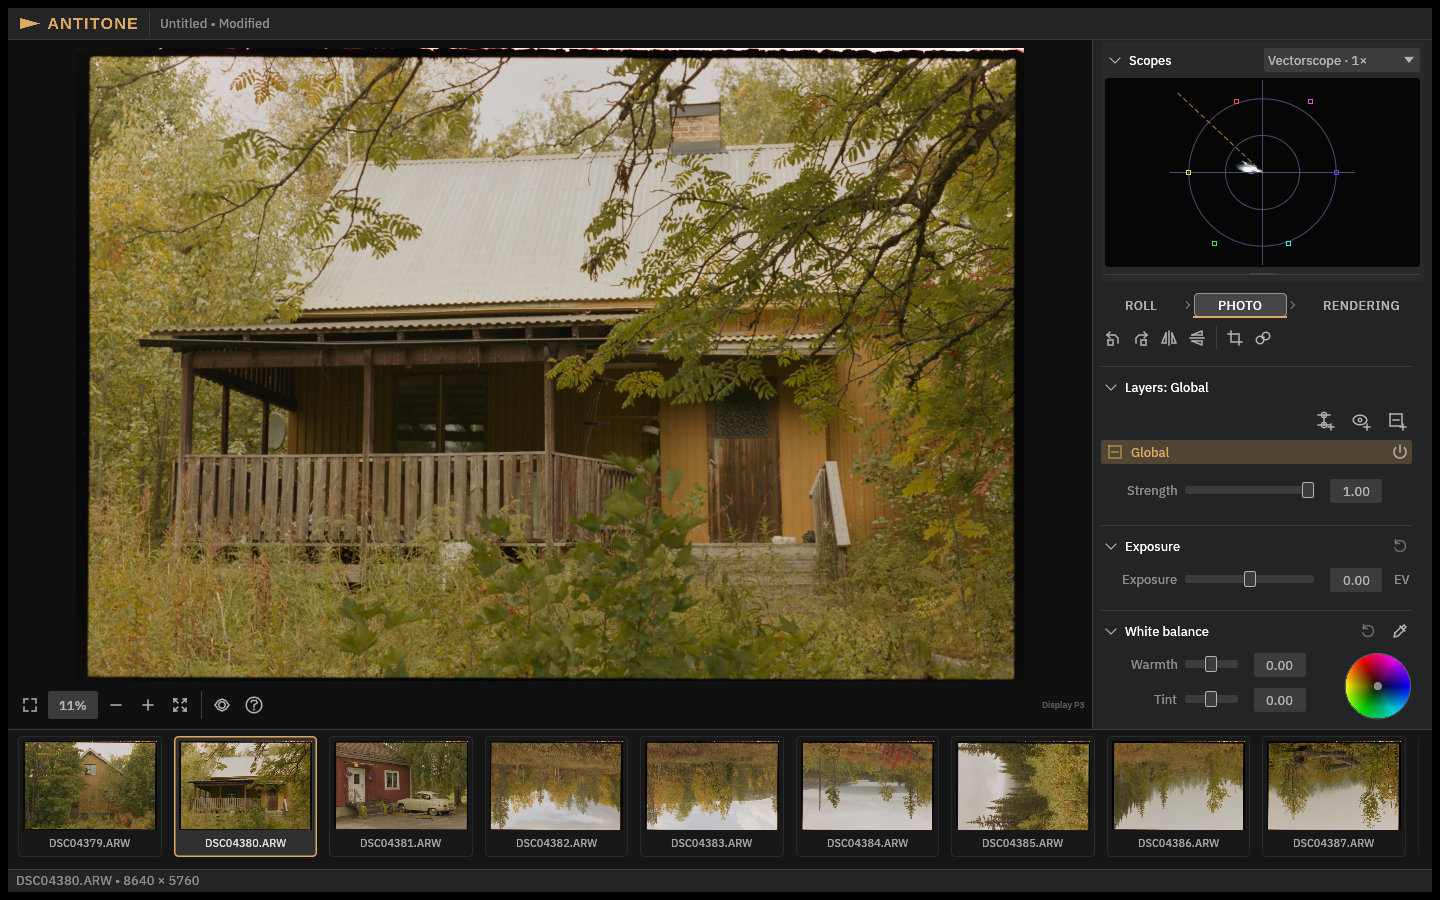
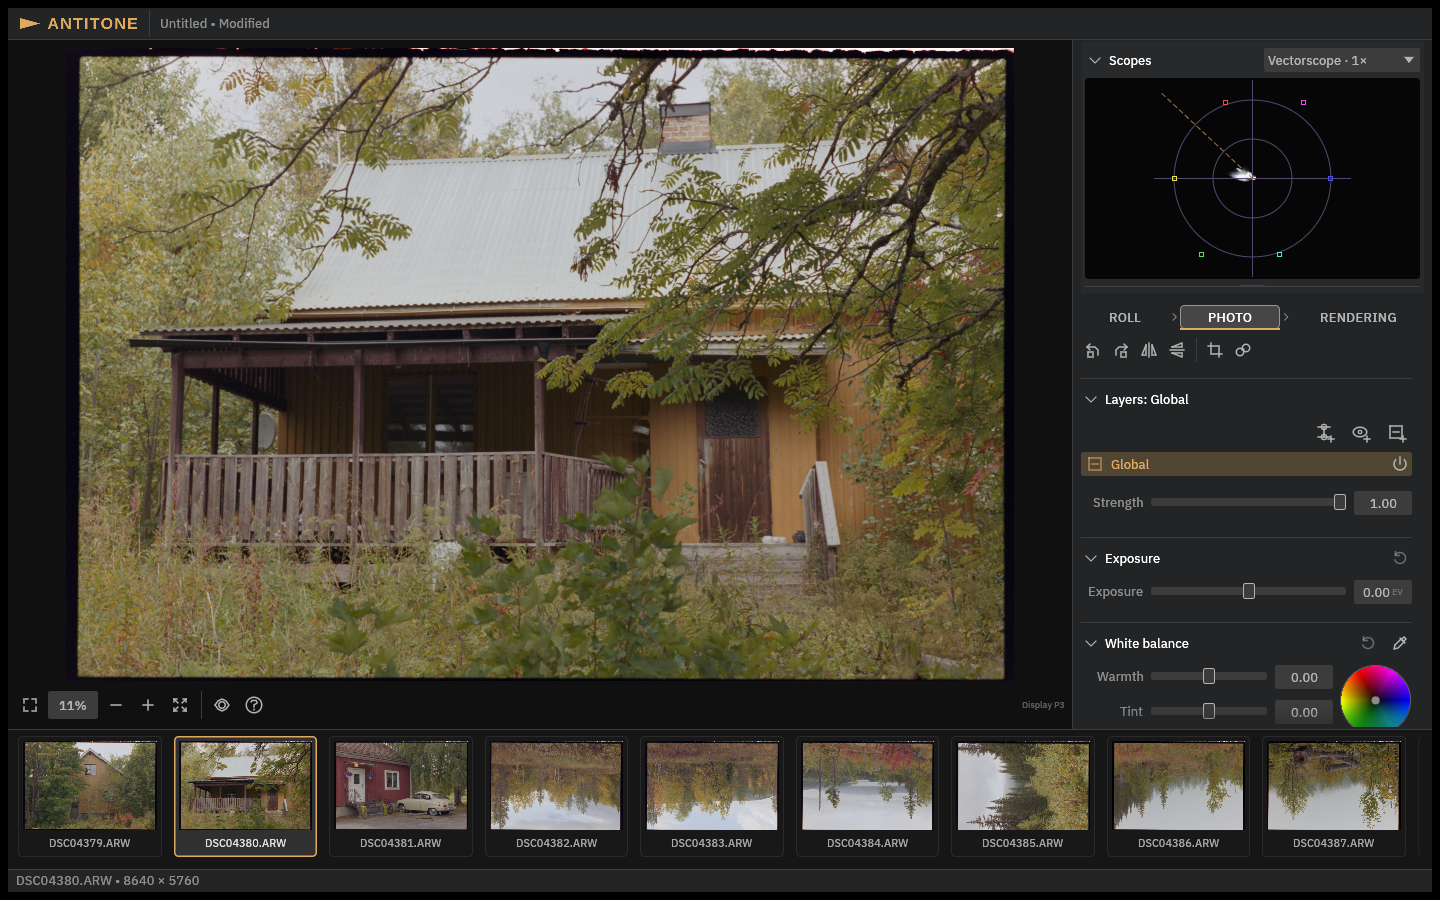
Align compact sliders on a shared inspector grid

diff --git a/src/editor/ui/parameter.rs b/src/editor/ui/parameter.rs
@@ -1,11 +1,14 @@
 use super::{
     ControlResponse, INSPECTOR_ROW_HEIGHT, PARAMETER_GAP, PARAMETER_NUMERIC_WIDTH,
-    PARAMETER_SLIDER_HEIGHT, PARAMETER_UNIT_WIDTH, icons,
+    PARAMETER_SLIDER_HEIGHT, icons,
+    inspector::name_label,
     interaction::{control_active, control_started},
     numeric_cancelled,
 };
 use egui::{Response, Ui};
 use std::ops::RangeInclusive;
+
+const PARAMETER_COLUMN_GAP: f32 = 8.;
 
 /// An inspector value row. Identity is independent of the displayed name.
 /// Features supply value semantics; spacing and gestures belong to the component.
@@ -116,9 +119,8 @@ struct FineDrag {
     fine: bool,
 }
 
-/// The fixed name column shared by every parameter row, so tracks line up across sections.
 fn parameter_name(ui: &mut Ui, row: &ParameterRow<'_>) -> Response {
-    let label = super::name_label(ui, row.label);
+    let label = name_label(ui, row.label);
     if let Some(help) = row.help {
         label.clone().on_hover_text(help);
     }
@@ -223,16 +225,18 @@ fn numeric_field(
     let decimals = row.decimals;
     let numeric = ui
         .push_id("numeric", |ui| {
-            ui.add_sized(
-                [PARAMETER_NUMERIC_WIDTH, height],
-                egui::DragValue::new(value)
-                    .speed(row.speed.unwrap_or(row.step))
-                    .range(row.range.clone())
-                    .clamp_existing_to_range(false)
-                    .min_decimals(2.min(decimals))
-                    .max_decimals(decimals)
-                    .update_while_editing(false),
-            )
+            ui.spacing_mut().button_padding.x = 2.;
+            let mut field = egui::DragValue::new(value)
+                .speed(row.speed.unwrap_or(row.step))
+                .range(row.range.clone())
+                .clamp_existing_to_range(false)
+                .min_decimals(2.min(decimals))
+                .max_decimals(decimals)
+                .update_while_editing(false);
+            if let Some(unit) = row.unit {
+                field = field.suffix(egui::RichText::new(format!(" {unit}")).small().weak());
+            }
+            ui.add_sized([PARAMETER_NUMERIC_WIDTH, height], field)
         })
         .inner;
     let cancelled = numeric_cancelled(ui, &numeric);
@@ -254,47 +258,30 @@ fn parameter_row(ui: &mut Ui, row: &ParameterRow<'_>, value: &mut f64) -> Parame
     ui.push_id(row.id, |ui| {
         let previous = *value;
         let mut reset = false;
-        let unit = row.unit;
         let (slider, numeric, label, cancelled, slider_value, numeric_value) =
             icons::row_at(ui, INSPECTOR_ROW_HEIGHT, |ui| {
+                ui.spacing_mut().item_spacing.x = PARAMETER_COLUMN_GAP;
                 let label = parameter_name(ui, row);
                 reset = row.default_value.is_some() && name_reset_gesture(ui, &label);
-                let reserved = PARAMETER_NUMERIC_WIDTH
-                    + 3. * ui.spacing().item_spacing.x
-                    + PARAMETER_UNIT_WIDTH;
-                let width = (ui.available_width() - reserved).max(48.);
+
+                let reserved = PARAMETER_COLUMN_GAP + PARAMETER_NUMERIC_WIDTH;
+                let width = (ui.available_width() - reserved).max(1.);
                 let mut slider_value = previous;
                 let slider = ui
                     .push_id("track", |ui| track(ui, row, &mut slider_value, width))
                     .inner;
+
                 let mut numeric_value = previous;
-                let (numeric, cancelled) = ui
-                    .with_layout(egui::Layout::right_to_left(egui::Align::Center), |ui| {
-                        ui.add_sized(
-                            [PARAMETER_UNIT_WIDTH, INSPECTOR_ROW_HEIGHT - 2.],
-                            egui::Label::new(unit.unwrap_or("")),
-                        );
-                        let (numeric, cancelled) = ui
-                            .push_id("number", |ui| {
-                                numeric_field(
-                                    ui,
-                                    row,
-                                    &mut numeric_value,
-                                    INSPECTOR_ROW_HEIGHT - 2.,
-                                )
-                            })
-                            .inner;
-                        if row.default_value.is_some() {
-                            numeric.clone().context_menu(|ui| {
-                                if ui.button("Reset to default").clicked() {
-                                    reset = true;
-                                    ui.close();
-                                }
-                            });
+                let (numeric, cancelled) =
+                    numeric_field(ui, row, &mut numeric_value, INSPECTOR_ROW_HEIGHT - 2.);
+                if row.default_value.is_some() {
+                    numeric.clone().context_menu(|ui| {
+                        if ui.button("Reset to default").clicked() {
+                            reset = true;
+                            ui.close();
                         }
-                        (numeric, cancelled)
-                    })
-                    .inner;
+                    });
+                }
                 (
                     slider,
                     numeric,

diff --git a/src/editor/ui/parameter/tests.rs b/src/editor/ui/parameter/tests.rs
@@ -466,40 +466,54 @@ fn bounded_rows_preserve_precision_clamp_edits_and_reset_only_when_enabled() {
 }
 
 #[test]
-fn parameter_rows_share_one_track_start() {
-    let context = egui::Context::default();
-    let mut contrast = 1.;
-    let mut pivot = 0.18;
-    let mut exposure = 0.;
-    let mut margin = 1.;
-    let mut rects = None;
-    let mut output = context.run_ui(
-        egui::RawInput {
-            screen_rect: Some(egui::Rect::from_min_size(
-                egui::Pos2::ZERO,
-                egui::vec2(315., 240.),
-            )),
-            ..Default::default()
-        },
-        |ui| {
-            egui::CentralPanel::default().show(ui, |ui| {
-                let a = identity_row().show(ui, &mut contrast).slider;
-                let b = ParameterRow::new("pivot", "Pivot", 0.01..=1.0)
-                    .logarithmic(true)
-                    .show(ui, &mut pivot)
-                    .slider;
-                let c = wide_row().show(ui, &mut exposure).slider;
-                let d = percent_row().show(ui, &mut margin).slider;
-                rects = Some((a, b, c, d));
-            });
-        },
-    );
-    output.textures_delta.clear();
-    let (contrast, pivot, exposure, margin) = rects.unwrap();
-    // Unit labels shorten the track at its right end, but every track starts in the same column.
-    assert_eq!(contrast.rect.left(), pivot.rect.left());
-    assert_eq!(pivot.rect.left(), exposure.rect.left());
-    assert_eq!(exposure.rect.left(), margin.rect.left());
+fn parameter_grid_aligns_tracks_and_values_with_or_without_units() {
+    for scale in [1., 2.] {
+        let context = egui::Context::default();
+        context.set_pixels_per_point(scale);
+        crate::editor::ui::configure_fonts(&context);
+        context.enable_accesskit();
+        let mut layout = None;
+        let mut output = context.run_ui(
+            egui::RawInput {
+                screen_rect: Some(egui::Rect::from_min_size(
+                    egui::Pos2::ZERO,
+                    egui::vec2(270., 240.),
+                )),
+                ..Default::default()
+            },
+            |ui| {
+                let right = ui.available_rect_before_wrap().right();
+                let mut contrast = 1.;
+                let mut exposure = -crate::processing::MAX_EXPOSURE;
+                let mut margin = crate::auto_crop::MAX_MARGIN_PERCENT;
+                let contrast = identity_row().show(ui, &mut contrast);
+                let exposure = wide_row().show(ui, &mut exposure);
+                let margin = percent_row().show(ui, &mut margin);
+                layout = Some((right, contrast, [(exposure, "EV"), (margin, "%")]));
+            },
+        );
+        output.textures_delta.clear();
+
+        let (right, contrast, with_units) = layout.unwrap();
+        let label_gap = contrast.slider.rect.left() - contrast.label.rect.right();
+        let value_gap = contrast.numeric.rect.left() - contrast.slider.rect.right();
+        assert!((label_gap - 8.).abs() < 0.5, "label gap: {label_gap}");
+        assert!((value_gap - 8.).abs() < 0.5, "value gap: {value_gap}");
+        assert!((contrast.numeric.rect.right() - right).abs() < 0.5);
+
+        let nodes = output.platform_output.accesskit_update.unwrap().nodes;
+        for (row, unit) in with_units {
+            assert_eq!(row.slider.rect.x_range(), contrast.slider.rect.x_range());
+            assert_eq!(row.numeric.rect.x_range(), contrast.numeric.rect.x_range());
+            assert!(
+                nodes.iter().any(|(_, node)| {
+                    node.role() == egui::accesskit::Role::SpinButton
+                        && node.value().is_some_and(|value| value.ends_with(unit))
+                }),
+                "the value should include its unit"
+            );
+        }
+    }
 }
 
 #[test]

diff --git a/src/editor/kittest_tests/project.rs b/src/editor/kittest_tests/project.rs
@@ -163,7 +163,39 @@ fn individual_roll_white_balance_resets_work_in_both_input_stages() {
                 };
             });
             let input = harness.read(|editor| editor.document.project.input);
+            set_layout(&mut harness, egui::vec2(800., 600.), 270.);
             stage(&mut harness, "Roll");
+            harness.get_by_label("White balance wheel").scroll_to_me();
+            harness.try_run_realtime().unwrap();
+
+            let wheel = harness.get_by_label("White balance wheel").rect();
+            let tracks = ["Warmth", "Tint"].map(|label| {
+                use egui::accesskit::Role;
+                let number = harness
+                    .get_all_by_role_and_label(Role::SpinButton, label)
+                    .map(|node| node.rect())
+                    .find(|rect| wheel.y_range().contains(rect.center().y))
+                    .expect("balance value beside wheel");
+                let track = harness
+                    .get_all_by_role_and_label(Role::Slider, label)
+                    .map(|node| node.rect())
+                    .find(|rect| rect.y_range().contains(number.center().y))
+                    .expect("balance track on the same row as its value");
+                assert!(track.right() <= number.left() && number.right() <= wheel.left());
+                assert!(track.width() >= 40., "balance track is cramped: {track:?}");
+                track
+            });
+            assert_eq!(tracks[0].x_range(), tracks[1].x_range());
+            if !digital {
+                use egui::accesskit::Role;
+                let gamma_track = harness.get_by_role_and_label(Role::Slider, "Gamma").rect();
+                let gamma_value = harness
+                    .get_by_role_and_label(Role::SpinButton, "Gamma")
+                    .rect();
+                assert_eq!(tracks[0].left(), gamma_track.left());
+                assert!((wheel.right() - gamma_value.right()).abs() <= 1.);
+            }
+
             reset_shared_balance_component(&mut harness, "Warmth", 0.2);
             harness.read(|editor| {
                 assert_eq!(

diff --git a/src/editor/ui/inspector.rs b/src/editor/ui/inspector.rs
@@ -12,10 +12,9 @@ pub(in crate::editor) const INSPECTOR_ITEM_GAP: f32 = 4.;
 pub(in crate::editor) const INSPECTOR_SECTION_GAP: f32 = 5.;
 pub(in crate::editor) const INSPECTOR_BODY_GAP: f32 = 3.;
 pub(in crate::editor) const PARAMETER_SLIDER_HEIGHT: f32 = 20.;
-pub(in crate::editor) const PARAMETER_NUMERIC_WIDTH: f32 = 52.;
-pub(in crate::editor) const PARAMETER_UNIT_WIDTH: f32 = 22.;
-/// Shared name column so every parameter track starts at the same x.
-pub(in crate::editor) const PARAMETER_LABEL_WIDTH: f32 = 76.;
+pub(in crate::editor) const PARAMETER_NUMERIC_WIDTH: f32 = 58.;
+/// Shared name column, including parameter rows alongside companion controls.
+const INSPECTOR_NAME_WIDTH: f32 = 62.;
 /// Adjacent value rows sit closer together than sections or shelves.
 pub(in crate::editor) const PARAMETER_GAP: f32 = 2.;
 /// One spacing scale for the inspector column; the rest of the application keeps its own.
@@ -27,14 +26,13 @@ pub(in crate::editor) fn inspector_spacing(ui: &mut Ui) {
     ui.spacing_mut().scroll.floating_allocated_width = 12.;
 }
 
-/// A fixed-width name cell; parameter and tool rows share it so their controls line up.
-pub(in crate::editor) fn name_label(ui: &mut Ui, text: &str) -> Response {
-    // The cell is fixed so tracks align; names sit against their track, not the column edge.
+/// A name aligned against its control within the row's name column.
+pub(super) fn name_label(ui: &mut Ui, text: &str) -> Response {
     ui.allocate_ui_with_layout(
-        egui::vec2(PARAMETER_LABEL_WIDTH, INSPECTOR_ROW_HEIGHT),
+        egui::vec2(INSPECTOR_NAME_WIDTH, INSPECTOR_ROW_HEIGHT),
         egui::Layout::right_to_left(egui::Align::Center),
         |ui| {
-            ui.set_min_width(PARAMETER_LABEL_WIDTH);
+            ui.set_min_width(INSPECTOR_NAME_WIDTH);
             ui.add(egui::Label::new(text).truncate().selectable(false))
         },
     )

diff --git a/src/editor/ui/balance.rs b/src/editor/ui/balance.rs
@@ -75,8 +75,10 @@ pub(in crate::editor) fn balance_pick_tool(
     }
 }
 
+const BALANCE_WHEEL_GAP: f32 = 6.;
+
 fn wheel_size(available: f32) -> f32 {
-    (available * 0.22).clamp(60., 76.)
+    (available * 0.22).clamp(58., 76.)
 }
 
 #[derive(Clone, Copy, Default)]
@@ -226,8 +228,9 @@ impl BalanceControl {
     pub fn show(self, ui: &mut Ui, value: &mut Balance) -> [ControlResponse; 3] {
         ui.push_id(self.id, |ui| {
             ui.horizontal(|ui| {
+                ui.spacing_mut().item_spacing.x = BALANCE_WHEEL_GAP;
                 let size = wheel_size(ui.available_width());
-                let column = (ui.available_width() - size - ui.spacing().item_spacing.x).max(120.);
+                let column = (ui.available_width() - size - BALANCE_WHEEL_GAP).max(120.);
                 let axes = ui
                     .vertical(|ui| {
                         ui.set_width(column);

diff --git a/src/editor/ui.rs b/src/editor/ui.rs
@@ -24,10 +24,10 @@ pub(super) use icons::Icon;
 mod inspector;
 pub(super) use inspector::{
     INSPECTOR_ROW_HEIGHT, INSPECTOR_SECTION_GAP, PARAMETER_GAP, PARAMETER_NUMERIC_WIDTH,
-    PARAMETER_SLIDER_HEIGHT, PARAMETER_UNIT_WIDTH, SectionHeader, SectionTool, collect_expansion,
-    draggable_icon_row, inspector_dropdown, inspector_row, inspector_spacing,
-    labelled_inspector_dropdown, labelled_row, labelled_row_at, name_label, restore_expansion,
-    section, section_disclosure, section_with_secondary_tool, stage_tabs,
+    PARAMETER_SLIDER_HEIGHT, SectionHeader, SectionTool, collect_expansion, draggable_icon_row,
+    inspector_dropdown, inspector_row, inspector_spacing, labelled_inspector_dropdown,
+    labelled_row, labelled_row_at, restore_expansion, section, section_disclosure,
+    section_with_secondary_tool, stage_tabs,
 };
 
 mod interaction;

diff --git a/src/editor/kittest_tests/history.rs b/src/editor/kittest_tests/history.rs
@@ -666,11 +666,9 @@ fn native_history_actions_cannot_interrupt_a_held_slider_or_an_open_popup() {
         h.read(|editor| assert_eq!(editor.photo_settings().exposure, 0.75));
 
         stage(&mut h, "Rendering");
-        h.get_by(|node| {
-            node.role() == egui::accesskit::Role::ComboBox
-                && node.value().as_deref() == Some("Display P3")
-        })
-        .click();
+        let role = egui::accesskit::Role::ComboBox;
+        scroll_to_control(&mut h, role, "Target");
+        h.get_by_role_and_label(role, "Target").click();
         h.step();
         assert!(egui::Popup::is_any_open(&h.ctx));
         let before_popup_undo = h.read(|editor| editor.document.state.project.clone());

diff --git a/src/editor/frame.rs b/src/editor/frame.rs
@@ -342,7 +342,7 @@ impl Editor {
             // The fixed name column and the balance wheel set the useful width; narrower than
             // this leaves the axis tracks too short to drag comfortably.
             egui::Panel::right("controls")
-                .default_size(340.)
+                .default_size(360.)
                 .min_size(270.)
                 .show(ui, |ui| self.controls(ui, cx))
                 .inner

diff --git a/docs/editor.md b/docs/editor.md
@@ -235,11 +235,11 @@ Shared value widgets edit local values and return interaction responses; feature
 
 The inspector uses its own spacing scale, tighter than the rest of the application: [Inspector](../src/editor/ui/inspector.rs) owns the inspector row height, item gap, section gap, slider height and numeric width, and `inspector_spacing` applies them to the column. Sections separate with a separator and a short gap; a section header carries its disclosure, its changed cue, a reset and related section tools. Anything added to the inspector should take its height and gaps from these constants rather than choosing its own. Consecutive value rows use a tighter gap than sections: their tracks read as one block only when the neighbouring rows are closer than the separators around them.
 
-A parameter is one row: a fixed-width name column, the track, then an editable value with its unit. The shared name column makes every track start at the same x, and names are right-aligned inside it so each sits against the control it labels; a unit label shortens the track's right end, and a name longer than the column truncates rather than buying track. Reset is a name gesture rather than a control — double-click or Option-click the name — backed by a **Reset to default** item in the value's context menu; a section reset still covers its whole group. Keep the row to those three parts: a per-row icon competes with the value for the narrow column.
+A parameter is one row: a right-aligned name, a flexible track and a fixed-width editable value. The compact name column aligns track starts across sections; longer names truncate. A unit is a muted suffix inside the value field, not a column. It stays out of the text while editing, and its presence does not move any column boundary. Reset is a name gesture rather than a control — double-click or Option-click the name — backed by a **Reset to default** item in the value's context menu; a section reset still covers its whole group. Keep the row to those three parts: a per-row icon competes with the value for the narrow column.
 
 Dragging a track is absolute, except when the press begins with Shift: that press holds the accepted value and the remaining travel applies at one-tenth rate, matching the numeric field's fine adjustment. Keyboard steps follow the same fraction.
 
-White balance and gamma balance share one body: the two axis rows, and a label-free hue wheel at the right end of the block, with the eyedropper and section reset in the header. The axes use the same one-line row as every other parameter; the wheel gives up a little diameter so those tracks stay usable. The wheel is a correction surface rather than a measurement device, so it sizes with the panel width and drags relatively from the press origin — Shift gives ten-times finer motion and a double-click resets the balance. Precision and stepping stay with the axis rows and their numeric fields.
+White balance and gamma balance share one body: the two axis rows, and a label-free hue wheel at the right end of the block, with the eyedropper and section reset in the header. The axes use the same parameter grid: the wheel shortens the tracks from the right without moving their starts. The wheel is a correction surface rather than a measurement device, so it sizes with the panel width and drags relatively from the press origin — Shift gives ten-times finer motion and a double-click resets the balance. Precision and stepping stay with the axis rows and their numeric fields.
 
 Scopes sit at the top of the column with their own disclosure, plot menu and drag handle. Their height is a persisted ratio of the column width and the default is deliberately modest, so the stage controls stay reachable; the handle restores that default on double-click, and the vectorscope's plot is square, so its circle follows the shorter side.
 
